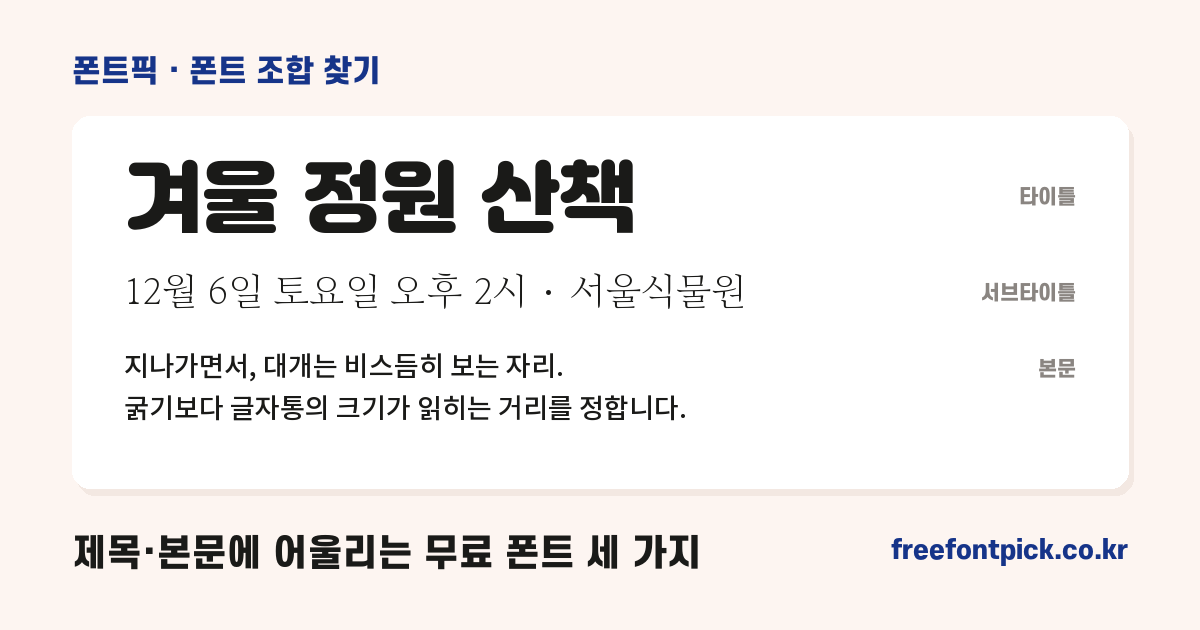
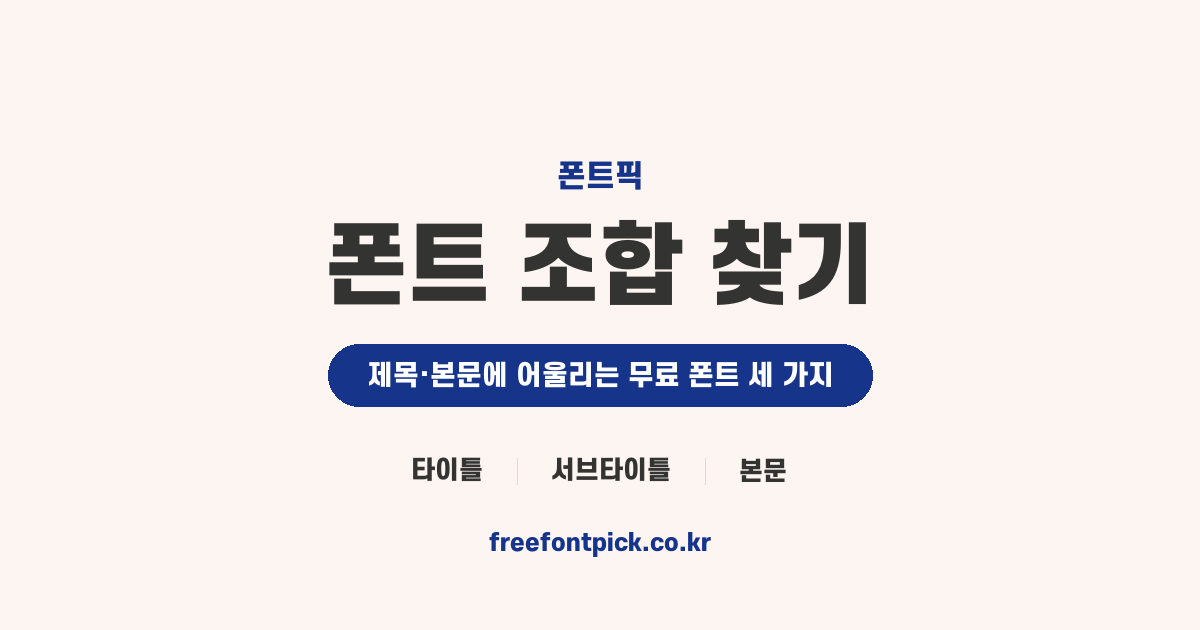
공유 카드 이미지를 메인 og 결로 · 정사각형으로 잘려도 안 깨지게
앞서 만든 것은 견본 카드를 그린 것이라 메인 og 이미지와 결이 달랐고,
1:1로 자르면 글자가 잘렸다. 다시 그린다.

- 메인 og 와 같은 네 단으로: 어깨글 · 큰 글자 · 남색 알약 · 아래 한 줄.
  바탕색·남색도 같은 값을 쓴다. 서체는 에스코어드림 — 메인 og 원본과
  가장 가까운 글자꼴이다(앞서 아홉 벌을 겹쳐 재 1위였다).
- 사례(견본 카드)를 뺐다.
- 모든 글자를 가운데 정사각형(630×630) 안에 넣는다. 인스타·카톡이 가로
  카드를 1:1로 자르는 자리가 있어서다. 스크립트가 다섯 요소의 폭을
  SAFE(550px)와 대조해 출력한다 — 문구를 고칠 때 넘치면 바로 보인다.
  실제로 잘라 보고 확인했다.
- 54KB → 21KB.

서체 캐시(tools/_ogfonts)는 저장소에 넣지 않는다. 스크립트가 없으면
운영에서 받아 온다.

diff --git a/tools/make_og_font_pair.py b/tools/make_og_font_pair.py
@@ -1,89 +1,135 @@
 # -*- coding: utf-8 -*-
-"""조합 찾기 페이지의 og 이미지(1200×630).
+"""조합 찾기 페이지의 공유 카드 이미지(1200×630)를 그린다.
 
-이 페이지가 하는 일이 "세 폰트를 한 자리에 앉혀 본다"이므로, 설명 문구를
-쓰는 대신 **실제로 그렇게 앉힌 화면**을 그린다. 카톡·인스타에서 카드는
-작게 뜨므로 글자를 크게, 요소는 적게 둔다.
+메인 og 이미지(static/og-image-v3.png)와 같은 결로 맞춘다 —
+같은 바탕색·남색, 어깨글 / 큰 글자 / 알약 / 아래 한 줄의 네 단.
 
-쓰는 서체는 페이지가 처음 열릴 때 나오는 그 세 벌이다 —
-여기어때 잘난체 / 아리따 부리 / Noto Sans CJK KR.
+가운데 정사각형 안에만 그린다
+----------------------------
+인스타·카톡은 가로 카드를 1:1로 잘라 쓰는 자리가 있다. 1200×630을 정사각형으로
+자르면 가운데 630×630만 남으므로, 글자를 그 안에 다 넣는다. 여백까지 치면
+가로 550px 안이다. 아래 SAFE 로 검사한다.
+
+다시 그릴 때
+-----------
+    python tools/make_og_font_pair.py
+
+서체 파일은 운영에서 내려받는다(없으면 자동으로 받는다). 메인 og 이미지는
+만든 방법이 안 남아 있어 글자 하나 고치는 데 원본 서체를 아홉 벌 겹쳐 재는
+일부터 해야 했다 — 그 일을 반복하지 않으려고 이 파일을 남긴다.
 """
+import io
 import os
 import sys
+import urllib.request
 
 sys.stdout.reconfigure(encoding='utf-8')
 from PIL import Image, ImageDraw, ImageFont
 
-SC = r'C:\Users\jypark\AppData\Local\Temp\claude\C--Users-jypark-Desktop\597320b7-bd1a-4b9c-8272-2cb6f8262ef2\scratchpad'
-OUT = r'C:\Users\jypark\Desktop\freefontpick\static\og-font-pair.png'
+ROOT = os.path.dirname(os.path.dirname(os.path.abspath(__file__)))
+FONT_DIR = os.path.join(ROOT, 'tools', '_ogfonts')
+OUT = os.path.join(ROOT, 'static', 'og-font-pair.png')
+BASE = 'https://freefontpick.co.kr'
 
 W, H = 1200, 630
-BG = (253, 245, 241)          # 메인 og와 같은 바탕
+BG = (253, 245, 241)
 NAVY = (22, 52, 137)
-INK = (26, 26, 24)
-MUTED = (138, 133, 129)
-CARD = (255, 255, 255)
+INK = (51, 51, 50)
+WHITE = (255, 255, 255)
 
-UI = SC + r'\fonts\61-800.ttf'          # 에스코어드림 800 — 라벨용
-F_TITLE = SC + r'\fonts\og-62.ttf'      # 여기어때 잘난체
-F_SUB = SC + r'\fonts\og-59.ttf'        # 아리따 부리
-F_BODY = SC + r'\fonts\og-10.ttf'       # Noto Sans CJK KR
+# 가운데 정사각형(630×630)에서 여백을 뺀 폭. 이 안에 다 들어가야 잘려도 안전하다.
+SAFE = 550
+CX = W // 2
+
+
+def fetch(font_id, weight, name):
+    """번들 폰트를 내려받아 ttf로 둔다. 이미 있으면 그대로 쓴다."""
+    os.makedirs(FONT_DIR, exist_ok=True)
+    path = os.path.join(FONT_DIR, '%d-%d.ttf' % (font_id, weight))
+    if not os.path.exists(path):
+        from fontTools.ttLib import TTFont
+        url = '%s/api/fonts/%d/file' % (BASE, font_id)
+        if weight != 400:
+            url += '?weight=%d' % weight
+        raw = urllib.request.urlopen(url, timeout=180).read()
+        f = TTFont(io.BytesIO(raw))
+        f.flavor = None
+        f.save(path)
+        print('  받음 %s' % name)
+    return path
+
+
+# 에스코어드림 — 메인 og 이미지와 가장 가까운 글자꼴(겹침 0.77로 아홉 벌 중 1위)
+UI900 = fetch(61, 900, '에스코어드림 900')
+UI800 = fetch(61, 800, '에스코어드림 800')
 
 im = Image.new('RGB', (W, H), BG)
 d = ImageDraw.Draw(im)
 
 
-def ink(text, font):
-    """글자가 실제로 차지하는 상자. anchor를 쓰면 글꼴의 빈 여백까지 세어
-    눈으로 볼 때 가운데가 밀린다."""
-    return font.getbbox(text)
+def fit(path, text, target):
+    """SAFE 안에 들어가는 가장 큰 크기를 찾는다."""
+    lo, hi, best = 10, 200, None
+    probe = ImageDraw.Draw(Image.new('RGB', (1, 1)))
+    for size in range(lo, hi):
+        f = ImageFont.truetype(path, size)
+        if probe.textlength(text, font=f) <= target:
+            best = (f, size)
+        else:
+            break
+    return best
 
 
-def draw_at(x, y_center, text, font, fill):
-    bb = ink(text, font)
-    d.text((x - bb[0], y_center - (bb[1] + bb[3]) / 2), text, font=font, fill=fill)
+def center(text, font, cy, fill):
+    """잉크 상자 기준으로 가운데. anchor를 쓰면 글꼴의 빈 여백까지 세어 밀린다."""
+    bb = font.getbbox(text)
+    d.text((CX - (bb[0] + bb[2]) / 2, cy - (bb[1] + bb[3]) / 2), text, font=font, fill=fill)
     return bb[2] - bb[0]
 
 
-# ── 위 어깨글 ────────────────────────────────────────────────
-f_kick = ImageFont.truetype(UI, 30)
-draw_at(72, 70, '폰트픽 · 폰트 조합 찾기', f_kick, NAVY)
+# ── ① 어깨글 ────────────────────────────────────────────────
+f_kick, _ = fit(UI800, '폰트픽', 200)
+f_kick = ImageFont.truetype(UI800, 30)
+w_kick = center('폰트픽', f_kick, 176, NAVY)
 
-# ── 견본 카드 — 실제 조합 화면을 그대로 옮긴다 ──────────────
-CX, CY, CW, CH = 72, 116, W - 144, 372
-d.rounded_rectangle([CX + 5, CY + 7, CX + CW + 5, CY + CH + 7],
-                    radius=18, fill=(243, 232, 226))      # 그림자
-d.rounded_rectangle([CX, CY, CX + CW, CY + CH], radius=18, fill=CARD)
+# ── ② 큰 글자 ───────────────────────────────────────────────
+f_big, size_big = fit(UI900, '폰트 조합 찾기', SAFE)
+w_big = center('폰트 조합 찾기', f_big, 262, INK)
 
-f_role = ImageFont.truetype(UI, 20)
-f_t = ImageFont.truetype(F_TITLE, 78)
-f_s = ImageFont.truetype(F_SUB, 38)
-f_b = ImageFont.truetype(F_BODY, 27)
+# ── ③ 알약 ──────────────────────────────────────────────────
+LEAD = '제목·본문에 어울리는 무료 폰트 세 가지'
+f_lead = ImageFont.truetype(UI800, 27)
+w_lead = d.textlength(LEAD, font=f_lead)
+pw, ph = w_lead + 76, 62
+d.rounded_rectangle([CX - pw / 2, 344, CX + pw / 2, 344 + ph], radius=ph // 2, fill=NAVY)
+center(LEAD, f_lead, 344 + ph / 2, WHITE)
 
-LX = CX + 52          # 글이 시작하는 자리
-RX = CX + CW - 52     # 역할 라벨이 끝나는 자리
-rows = [
-    (196, '타이틀', '겨울 정원 산책', f_t),
-    (292, '서브타이틀', '12월 6일 토요일 오후 2시 · 서울식물원', f_s),
-    (368, '본문', '지나가면서, 대개는 비스듬히 보는 자리.', f_b),
-]
-for y, role, text, font in rows:
-    draw_at(LX, y, text, font, INK)
-    bb = ink(role, f_role)
-    d.text((RX - (bb[2] - bb[0]) - bb[0], y - (bb[1] + bb[3]) / 2),
-           role, font=f_role, fill=MUTED)
+# ── ④ 세 자리 ───────────────────────────────────────────────
+# 메인 og 이미지의 아이콘 세 칸과 같은 자리. 이 페이지가 다루는 세 단이다.
+f_role = ImageFont.truetype(UI800, 25)
+roles = ['타이틀', '서브타이틀', '본문']
+gap, sep = 34, 1
+widths = [d.textlength(r, font=f_role) for r in roles]
+total = sum(widths) + gap * 2 * len(roles) - gap * 2 + sep * 2
+x = CX - total / 2
+for i, r in enumerate(roles):
+    bb = f_role.getbbox(r)
+    d.text((x - bb[0], 470 - (bb[1] + bb[3]) / 2), r, font=f_role, fill=INK)
+    x += widths[i]
+    if i < len(roles) - 1:
+        x += gap
+        d.line([(x, 458), (x, 484)], fill=(228, 216, 210), width=sep)
+        x += gap
 
-# 본문 아래 한 줄 더 — 세 단이 한 덩어리로 보이게
-draw_at(LX, 408, '굵기보다 글자통의 크기가 읽히는 거리를 정합니다.', f_b, INK)
-
-# ── 아래 한 줄 ───────────────────────────────────────────────
-f_lead = ImageFont.truetype(UI, 36)
-f_url = ImageFont.truetype(UI, 26)
-draw_at(72, 552, '제목·본문에 어울리는 무료 폰트 세 가지', f_lead, INK)
-u = 'freefontpick.co.kr'
-bb = ink(u, f_url)
-d.text((W - 72 - (bb[2] - bb[0]) - bb[0], 552 - (bb[1] + bb[3]) / 2),
-       u, font=f_url, fill=NAVY)
+# ── ⑤ 주소 ──────────────────────────────────────────────────
+f_url = ImageFont.truetype(UI800, 24)
+w_url = center('freefontpick.co.kr', f_url, 545, NAVY)
 
 im.save(OUT, optimize=True)
-print('저장 %s  %dx%d  %.0fKB' % (OUT, W, H, os.path.getsize(OUT) / 1024))
+
+print('\n저장 %s' % OUT)
+print('  %dx%d · %.0fKB' % (W, H, os.path.getsize(OUT) / 1024))
+print('\n가운데 정사각형(폭 %d) 안에 들어가는지' % SAFE)
+for label, w in [('어깨글', w_kick), ('큰 글자(%dpx)' % size_big, w_big),
+                 ('알약', pw), ('세 자리', total), ('주소', w_url)]:
+    print('  %-16s %4.0fpx  %s' % (label, w, 'OK' if w <= SAFE else '★ 넘침'))
